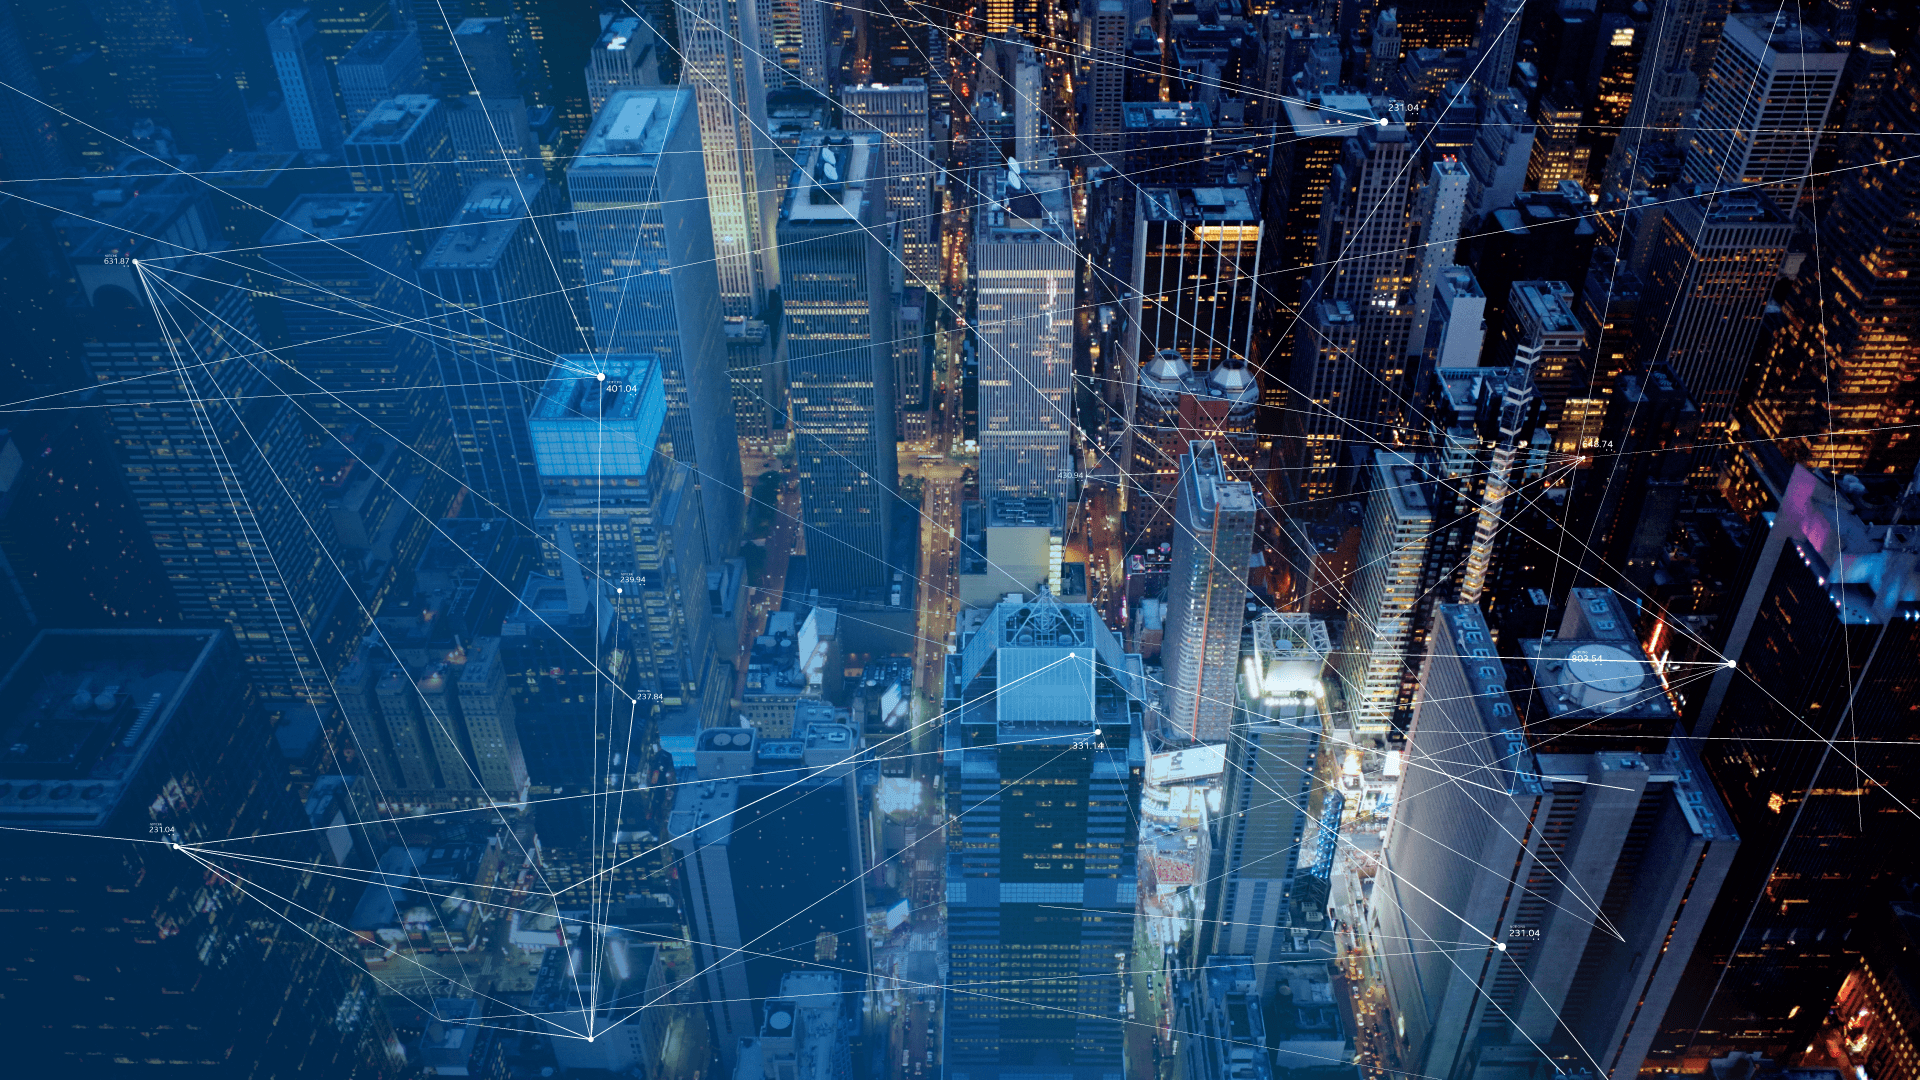
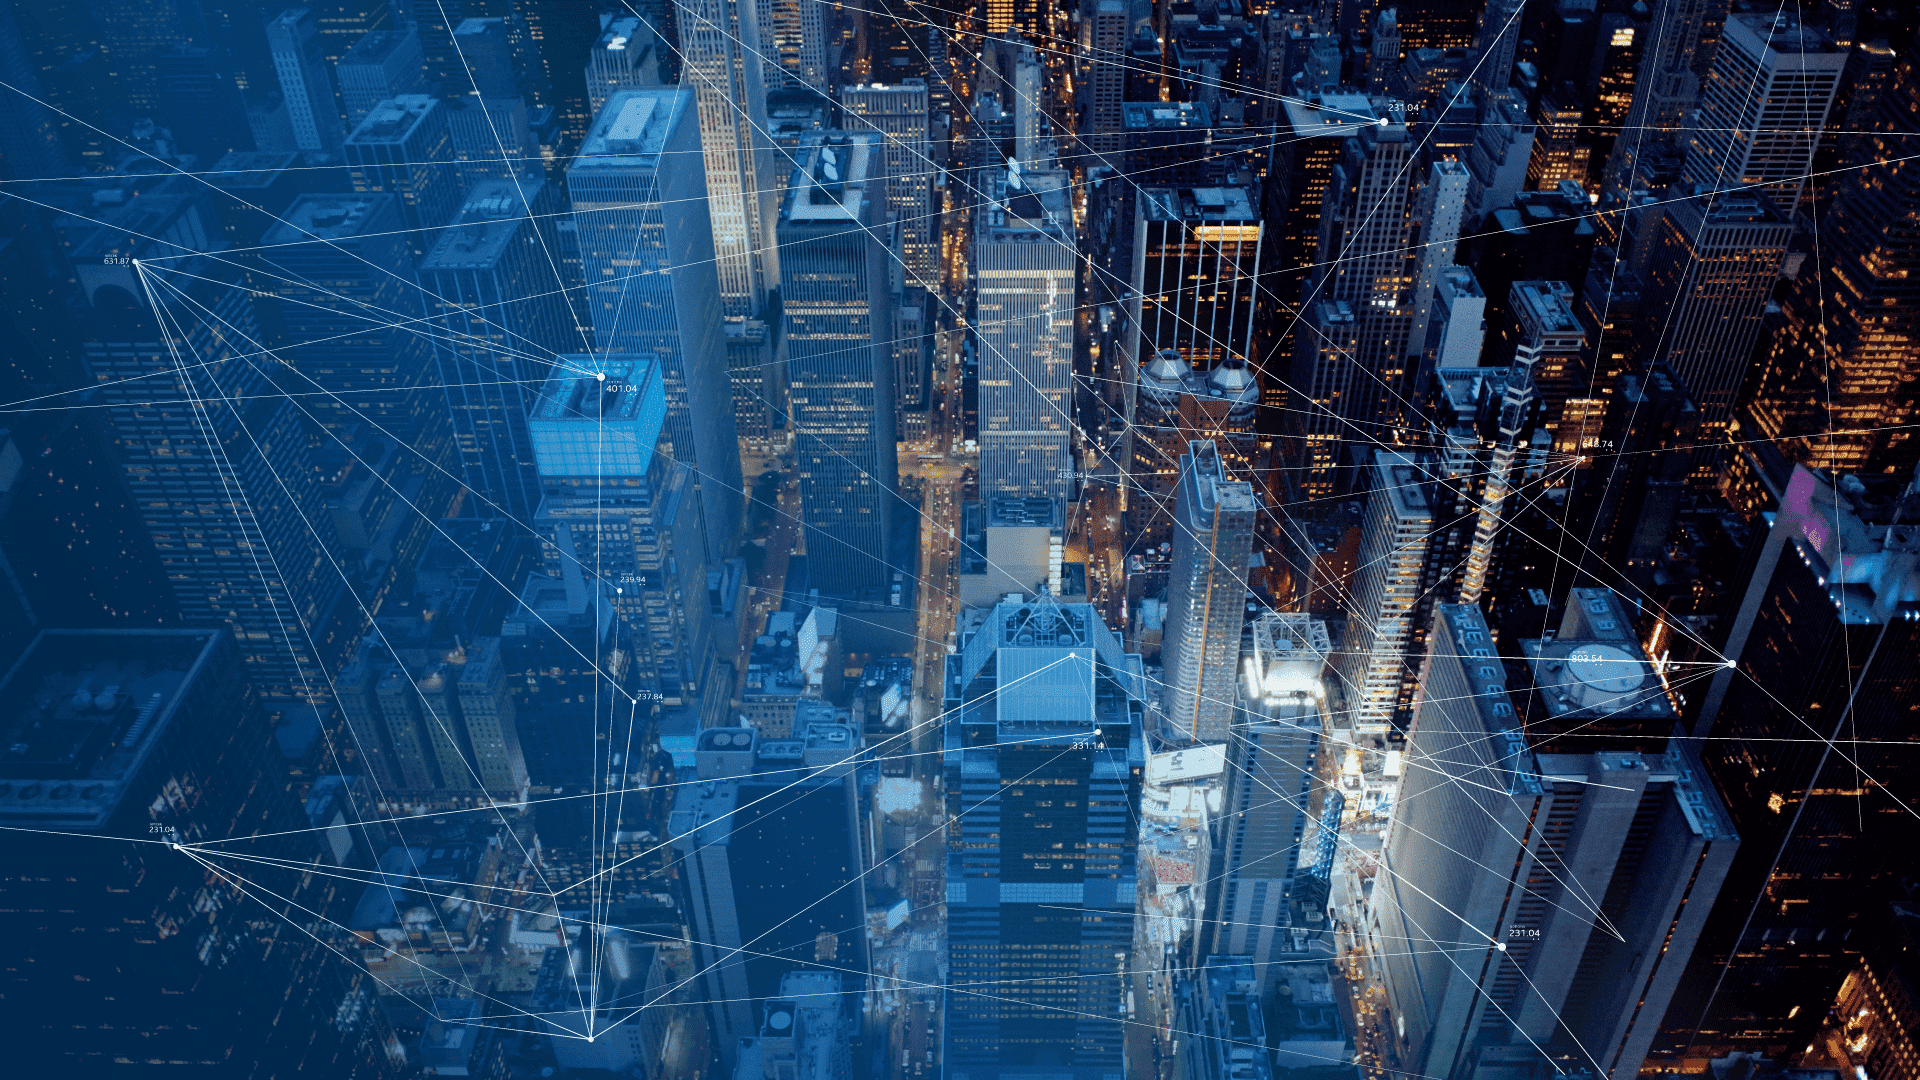
Optimized the bundler. Introduced a way around webpack not bundling images

diff --git a/client/src/components/hero.js b/client/src/components/hero.js
@@ -1,6 +1,8 @@
 import React, { Component } from 'react';
 import Nav from './nav';
 import Loader from './loader';
+import heroImageGrad from '../../res/images/connectedcity.png';
+import heroImageEmpl from '../../res/images/employers.jpg';
 
 class Hero extends Component {
   constructor() {
@@ -8,12 +10,20 @@ class Hero extends Component {
   }
   render() {
     const { item } = this.props;
-    const classes = "hero is-primary is-large header-image " + item.classImage;
+
+    // To get around a bug in how webpack behaves when bundling react code, we will
+    // get background images like this.
+    const pathToBackgroundToRender =  item.type === "employer" ? heroImageEmpl : heroImageGrad;
+    const style = {
+      backgroundImage: "linear-gradient(rgba(0, 0, 0, 0.49), rgba(0, 0, 0, 0.72)),\
+      url(" + pathToBackgroundToRender + ")"
+    }
+
     if (!item) {
       return (<div><Loader/></div>);
     }
     return (
-      <section className={classes}>
+      <section className="hero is-primary is-large header-image" style={style}>
         <Nav />
         <div className="hero-body">
           <div id="hero-text" className="container ">

diff --git a/webpack/client.prod.js b/webpack/client.prod.js
@@ -38,7 +38,8 @@ module.exports = {
         use: [{
           loader: 'url-loader',
           options: {
-            outputPath: 'images/',
+            emitFile: true,
+            outputPath: './images/'
           }
         }]
       },
@@ -50,7 +51,7 @@ module.exports = {
             options: {
               limit: 10000,
               mimetype: 'application/font-woff',
-              outputPath: 'fonts/'
+              outputPath: './fonts/'
             }
           }
         ]
@@ -61,7 +62,7 @@ module.exports = {
           {
             loader: 'url-loader',
             options: {
-              outputPath: './fonts'
+              outputPath: './fonts/'
             }
           }
         ]

diff --git a/webpack/server.prod.js b/webpack/server.prod.js
@@ -30,11 +30,12 @@ module.exports = {
         test: /\.(png|jpg|gif)$/,
         use: [
           {
-            loader: 'file-loader',
+            loader: 'url-loader',
             options: {
-              outputPath: 'images/',
-              emitFile: false,
+              emitFile: true,
+              outputPath: './images/'
             }
+
           }
         ]
       },
@@ -53,7 +54,12 @@ module.exports = {
       {
         test: /\.(ttf|eot|svg)(\?v=[0-9]\.[0-9]\.[0-9])?$/,
         use: [
-          { loader: 'file-loader' }
+          {
+            loader: 'file-loader',
+            options: {
+              outputPath: './fonts/'
+            },
+          }
         ]
       }
     ],

diff --git a/client/src/consts/list_items.js b/client/src/consts/list_items.js
@@ -1,5 +1,6 @@
 export default {
   EMPLOYER : {
+    type: "employer",
     heroTitle: "Find top graduates to join your team",
     description: "GenZ is a recruitment marketplace to hire the best South African graduates",
     start: "Get started",
@@ -8,6 +9,7 @@ export default {
     apply: "Apply now"
   },
   EMPLOYEE : {
+    type: "employee",
     heroTitle: "Improve your career prospects in the field of your dreams",
     description: "Sign up and get interview requests with an upfront salary offer, from more than 500 institutions.",
     start: "Get started",

diff --git a/client/src/index.js b/client/src/index.js
@@ -16,8 +16,7 @@ Here we are getting the initial state injected by the server. See routes/index.j
 const initialState = window.__INITIAL_STATE__; // eslint-disable-line
 
 const store = createStore(reducers, initialState);
-console.log("The log in the server");
-console.log(initialState);
+
 /*
 While creating a store, we will inject the initial state we received from the server to our app.
  */

diff --git a/server/routes/ssr.js b/server/routes/ssr.js
@@ -15,7 +15,7 @@ router.get('/', (req, res) => {
     http://redux.js.org/docs/recipes/ServerRendering.html
   */
   const store = createStore(reducers);
-  console.log("The store ");
+
   console.log(store);
   /*
       We can dispatch actions from server side as well. This can be very useful if you want
